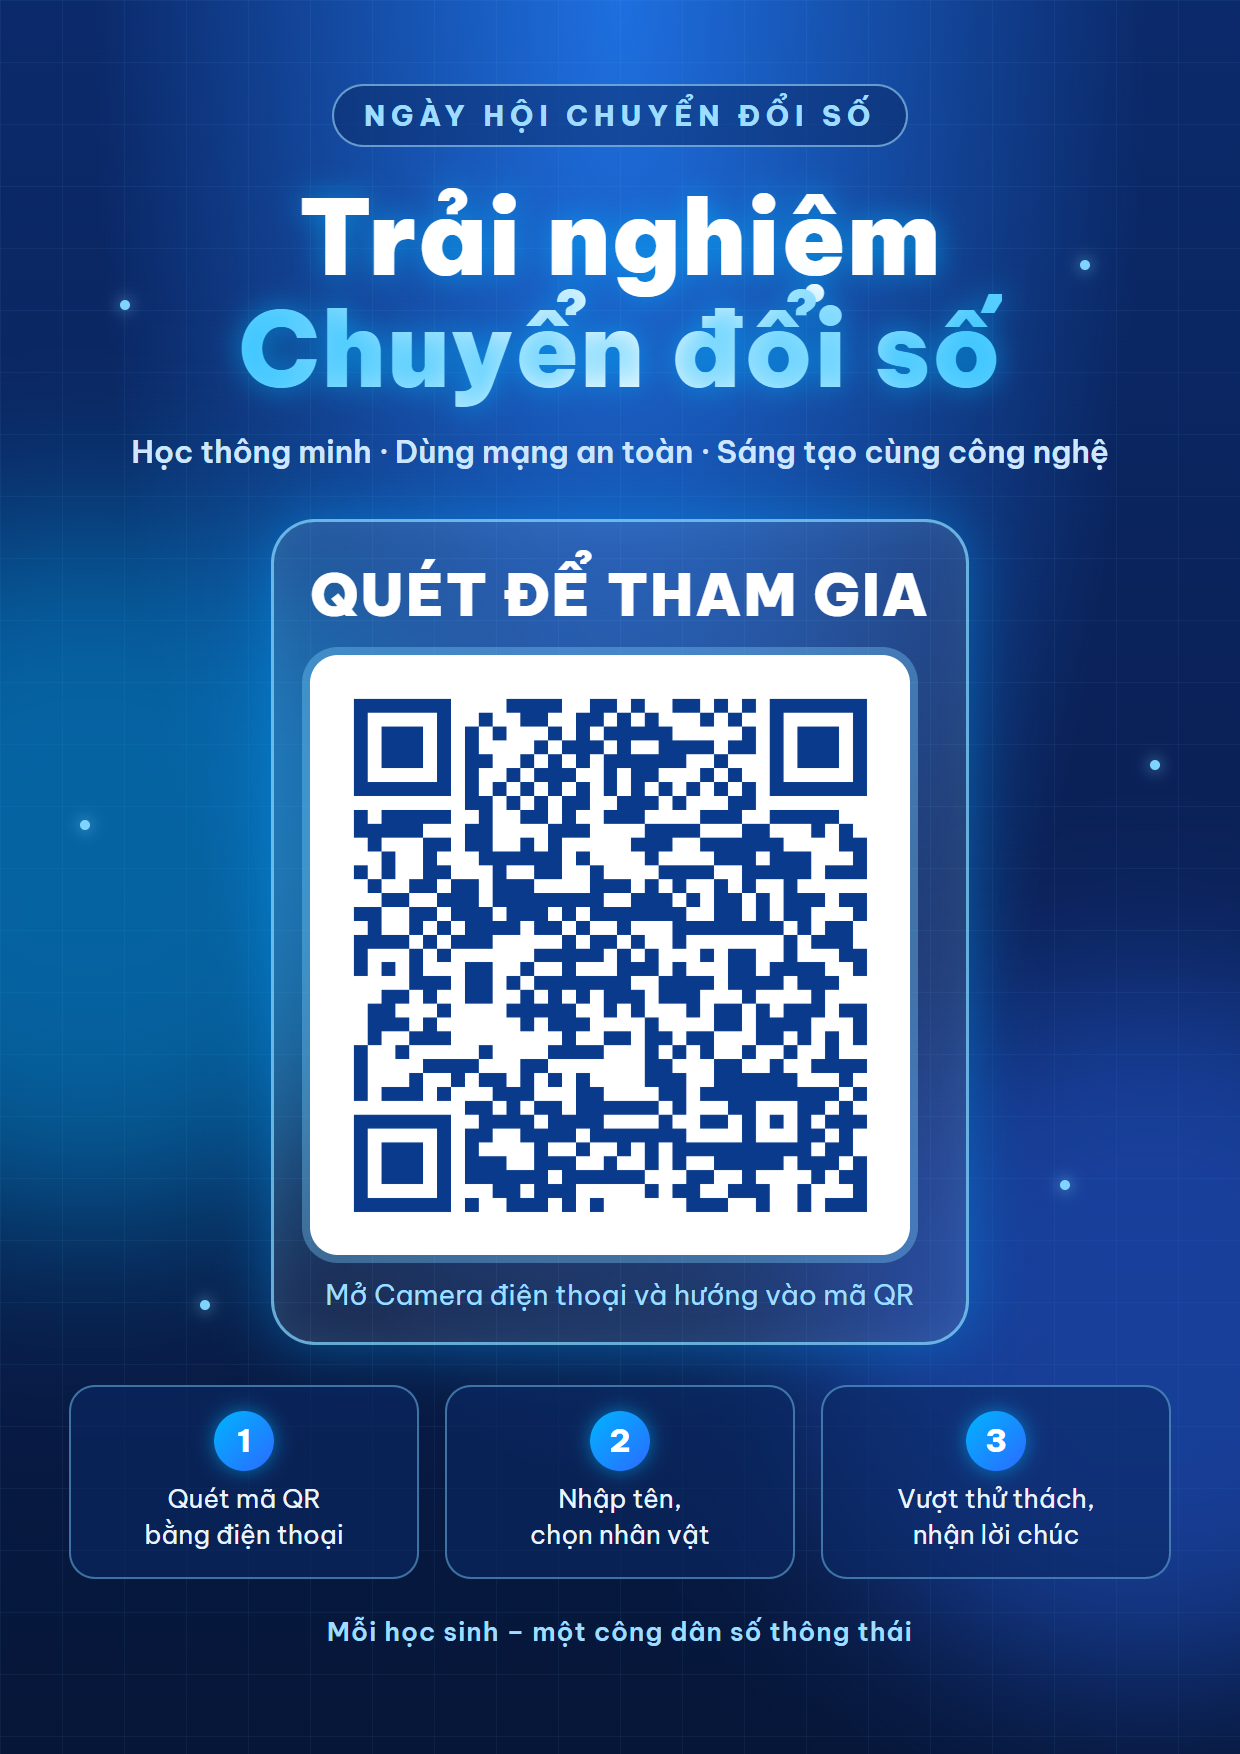
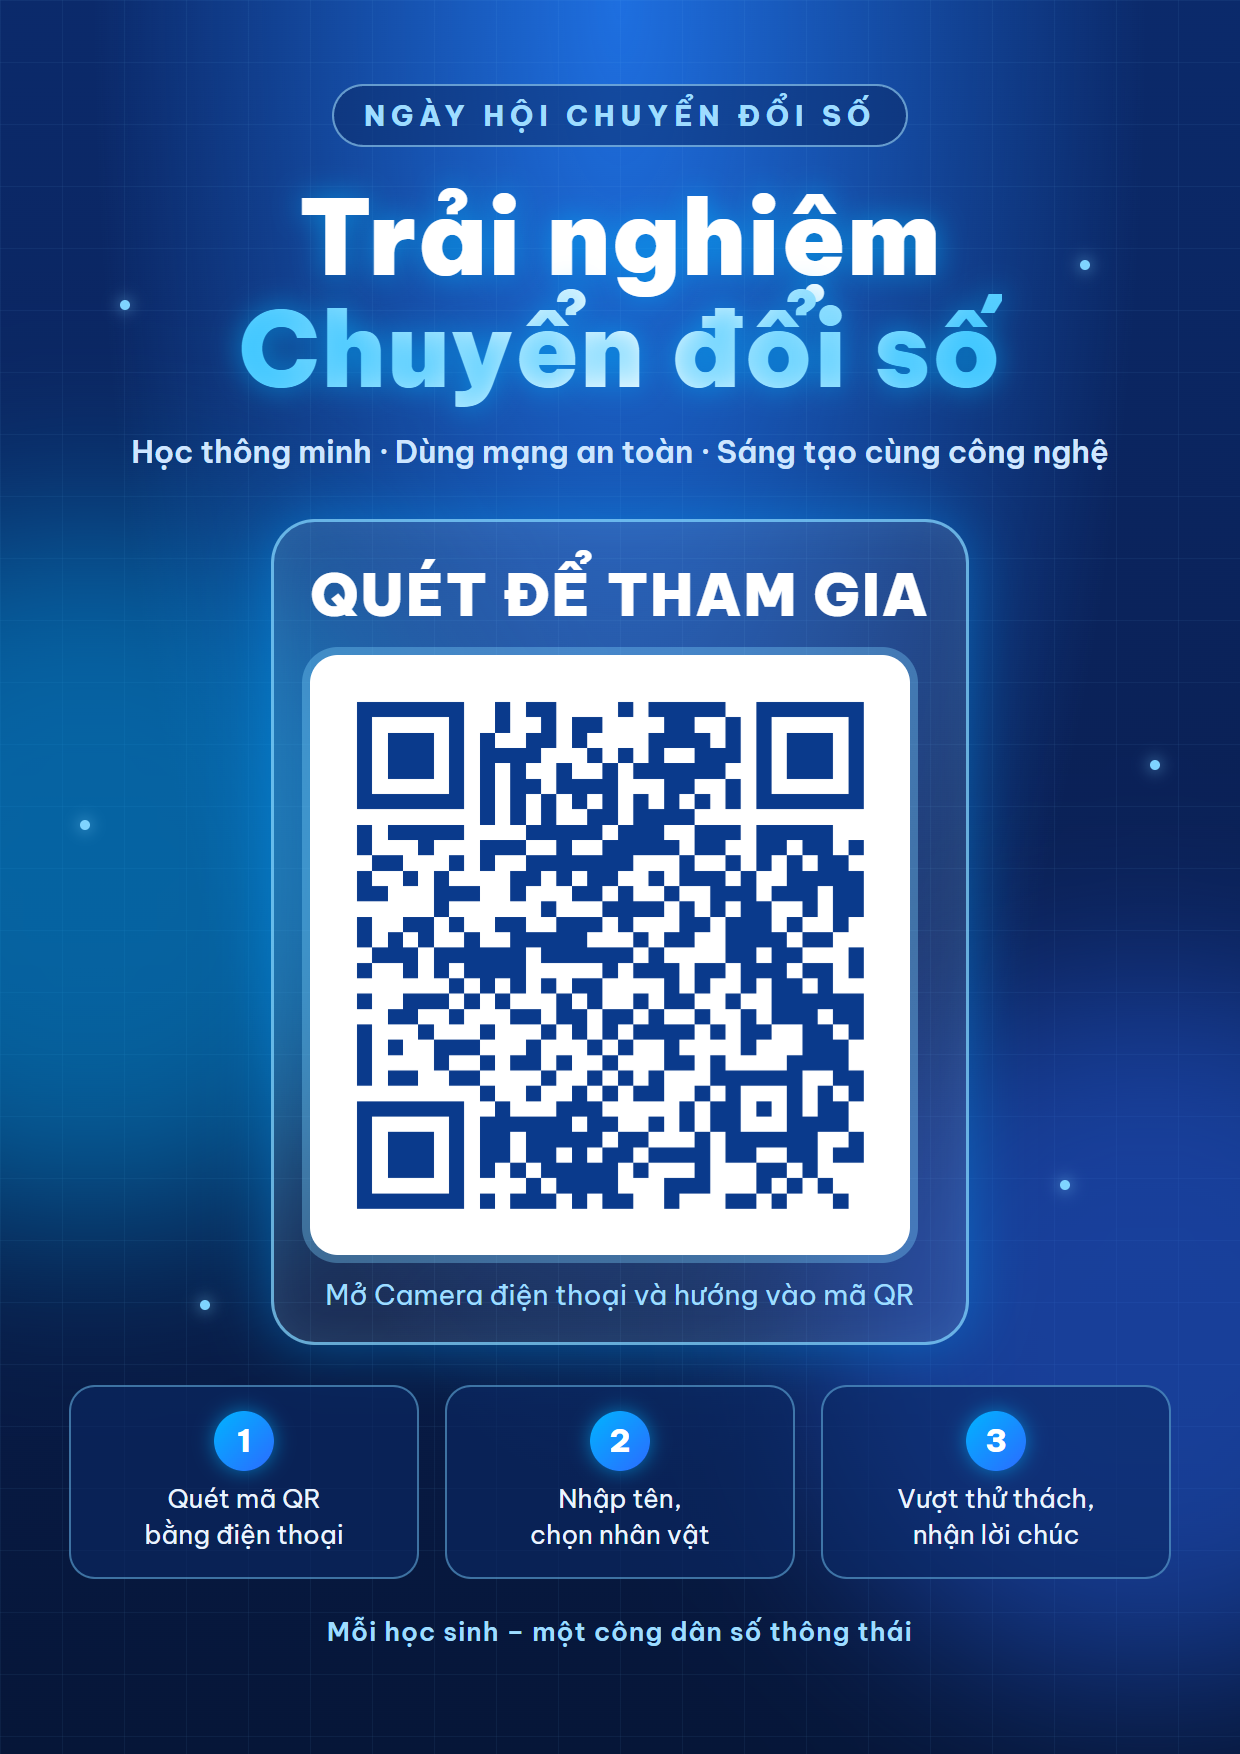
Một phiên cố định, một mã QR duy nhất; ẩn mã phiên và nút Phiên mới

Changed region(s): [[0.2758, 0.4002, 0.7048, 0.7081]]

diff --git a/index.html b/index.html
@@ -381,7 +381,7 @@ footer{text-align:center;color:var(--muted);font-size:13px;margin-top:44px}
   <section class="top">
     <div class="card join">
       <h2 class="h2">QUÉT ĐỂ THAM GIA</h2>
-      <div class="room">
+      <div class="room" style="display:none">
         <span class="rl">MÃ PHIÊN:</span><span class="rc" id="roomCode">------</span>
         <button class="btn sm ylw" type="button" id="btnRoom" title="Tạo phiên chơi mới với bảng xếp hạng mới">🔄 Phiên mới</button>
       </div>
@@ -468,7 +468,7 @@ footer{text-align:center;color:var(--muted);font-size:13px;margin-top:44px}
       <button class="btn pri" type="button" id="btnPrint">🖨 In mã trạm</button>
     </div>
     <div class="print-title">NEO-CITY · Giải Cứu Trường Học Số — Quét bằng camera điện thoại để mở ải</div>
-    <p class="secnote">In và dán các mã này tại 7 vị trí trong lớp/sân trường. Học sinh quét mã của trạm để mở ải tương ứng (dùng cho chế độ 📷 Trạm QR). Mã trạm dùng được cho mọi phiên chơi – chỉ cần in một lần.</p>
+    <p class="secnote">In và dán các mã này tại 7 vị trí trong lớp/sân trường. Học sinh quét mã của trạm để mở ải tương ứng (dùng cho chế độ 📷 Trạm QR). Chỉ cần in một lần, dùng mãi.</p>
     <div class="grid" id="stations"></div>
   </section>
 
@@ -487,7 +487,7 @@ footer{text-align:center;color:var(--muted);font-size:13px;margin-top:44px}
     </div>
     <div class="ov-qr">
       <div class="qrbox"><div class="qr" id="qrOv" role="img" aria-label="Mã QR tham gia"></div></div>
-      <div><div class="l">Quét để tham gia<br>MÃ PHIÊN</div><div class="c" id="ovRoom">------</div></div>
+      <div><div class="l">Quét để<br>tham gia</div><div class="c" id="ovRoom" style="display:none">------</div></div>
     </div>
     <button class="ov-close" type="button" id="ovClose" aria-label="Đóng chế độ trình chiếu" title="Đóng (Esc)">✕</button>
   </div>
@@ -532,16 +532,14 @@ footer{text-align:center;color:var(--muted);font-size:13px;margin-top:44px}
     for (var i = 0; i < 6; i++) out += ROOM_CHARS[(buf ? buf[i] : Math.floor(Math.random() * 4294967296)) % ROOM_CHARS.length];
     return out;
   }
-  // ?room=XXXXXX trên link trang giáo viên: dùng mã phiên cố định (khớp với mã QR đã in sẵn)
-  var urlRoom = (new URLSearchParams(location.search).get('room') || '').toUpperCase();
-  var ROOM = /^[A-HJ-NP-Z2-9]{6}$/.test(urlRoom) ? urlRoom : lsGet(LS_ROOM);
-  if (!/^[A-HJ-NP-Z2-9]{6}$/.test(ROOM || '')) ROOM = newRoom();
+  // Một phiên cố định duy nhất cho cả trường – khớp với mã QR đã in trên poster
+  var ROOM = 'THCS26';
   lsSet(LS_ROOM, ROOM);
 
   var BASE = normBase(lsGet(LS_BASE)) || defaultBase;
   var MODE = lsGet(LS_MODE) === 'station' ? 'station' : 'free';
 
-  function joinLink(){ return BASE + 'play.html?mode=' + MODE + '&room=' + encodeURIComponent(ROOM); }
+  function joinLink(){ return BASE + 'play.html?mode=' + MODE; }   // game tự vào phiên mặc định
   function stationLink(L){ return BASE + 'play.html?key=' + encodeURIComponent(L.key); }
 
   function makeQR(el, text, size){
@@ -875,7 +873,7 @@ footer{text-align:center;color:var(--muted);font-size:13px;margin-top:44px}
         p.finished ? 'Có' : 'Không', p.finished ? dt(p.finishedAt) : '', dt(p.updatedAt)]);
     });
     var csv = '' + rows.map(function(r){ return r.map(csvCell).join(','); }).join('\r\n');
-    var d = new Date(), name = 'xep-hang-' + ROOM + '-' + d.getFullYear() + '-' + pad(d.getMonth() + 1) + '-' + pad(d.getDate()) + '.csv';
+    var d = new Date(), name = 'xep-hang-' + d.getFullYear() + '-' + pad(d.getMonth() + 1) + '-' + pad(d.getDate()) + '.csv';
     var blob = new Blob([csv], { type: 'text/csv;charset=utf-8' });
     var url = URL.createObjectURL(blob), a = document.createElement('a');
     a.href = url; a.download = name; document.body.appendChild(a); a.click(); document.body.removeChild(a);

diff --git a/game.js b/game.js
@@ -15,11 +15,12 @@ window.PUZZLES = window.PUZZLES || {};
 /* ---------- Trạng thái (lưu trên máy) ---------- */
 const SKEY = 'neocity_v1';
 const S = Object.assign(
-  { name: '', cls: '', avatar: AVATARS[0], mode: 'free', room: 'DEMO', pid: '', done: {}, unlocked: {}, wishes: [], scores: {},
+  { name: '', cls: '', avatar: AVATARS[0], mode: 'free', room: 'THCS26', pid: '', done: {}, unlocked: {}, wishes: [], scores: {},
     sound: true, assembled: false, finishedAt: null },
   (() => { try { return JSON.parse(localStorage.getItem(SKEY) || '{}'); } catch (e) { return {}; } })()
 );
 if (!S.pid) S.pid = Date.now().toString(36) + Math.random().toString(36).slice(2, 8);
+if (S.room === 'DEMO') S.room = 'THCS26';   // một phiên cố định cho cả trường
 const save = () => { try { localStorage.setItem(SKEY, JSON.stringify(S)); } catch (e) {} };
 const MAIN = LEVELS.filter(l => !l.boss);
 const BOSS = LEVELS.find(l => l.boss);
